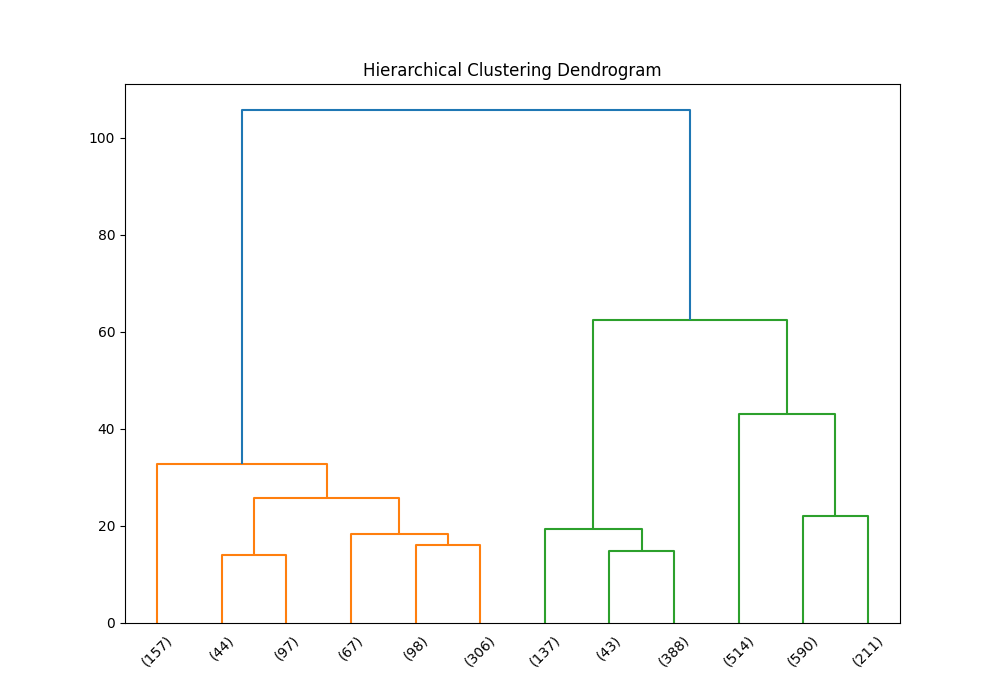
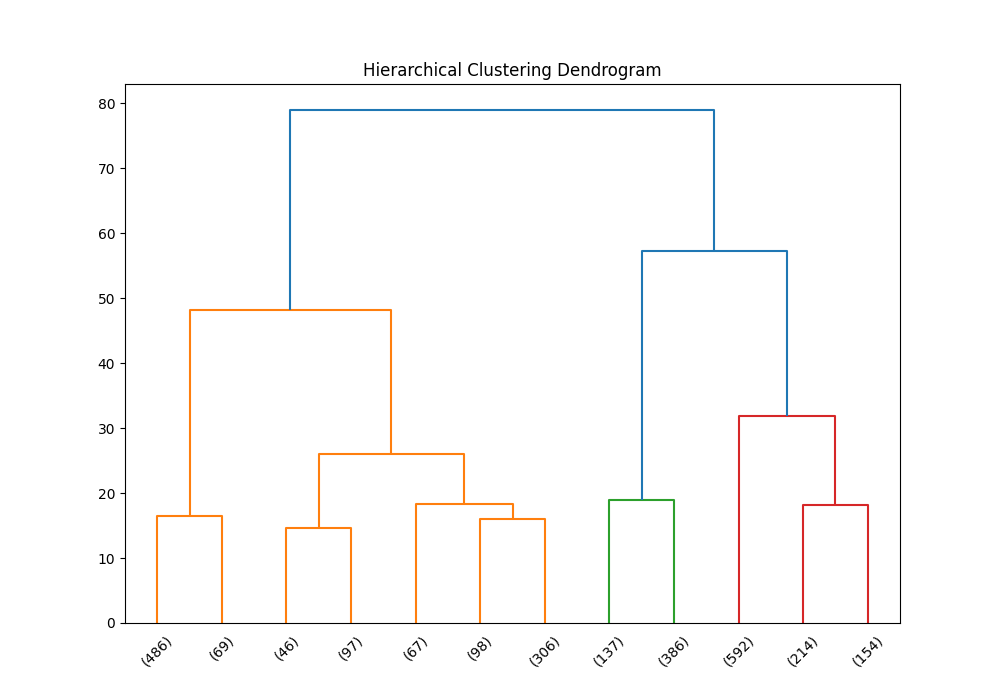
Latest Run reports

diff --git a/media/autolysis.py b/media/autolysis.py
@@ -1,0 +1,244 @@
+import pandas as pd
+import numpy as np
+import matplotlib.pyplot as plt
+import seaborn as sns
+#import plotly.express as px
+import openai
+import sys
+import os
+import markdown
+from charset_normalizer import detect
+from pathlib import Path
+from sklearn.cluster import KMeans
+from sklearn.preprocessing import StandardScaler
+from scipy.cluster.hierarchy import dendrogram, linkage
+
+if len(sys.argv) < 2:
+    print("Usage: uv run autolysis.py <filename.csv>")
+    sys.exit(1)
+file_path = sys.argv[1]
+markdown_content = []
+
+# Function to detect encoding, Load and Prepare Dataset
+def load_dataset(file_path):
+    try:
+        with open(file_path, 'rb') as file:
+            raw_data = file.read()
+            result = detect(raw_data)
+            encoding = result['encoding']
+        print(f"Detected encoding: {encoding}")
+        data = pd.read_csv(file_path, encoding=encoding)
+        return data
+    except Exception as e:
+        print(f"Error loading/determining the file encoding: {e}")
+        return None
+
+# Perform basic analysis
+def basic_analysis(csvdata,numerical_cols):
+    try:
+        data_datatypes = csvdata.dtypes.to_string()
+        if len(csvdata.head(50)) >= 50:
+            data_sample = csvdata.head(50).to_string()
+        else:
+            data_sample = csvdata.to_string()
+
+        data_stat = csvdata.describe(include='all').to_string()
+        missing_values = csvdata.isnull().sum()
+        missing_summary = missing_values[missing_values > 0]
+        correlation_matrix = csvdata[numerical_cols].corr()
+        analysis_summary = {
+                "shape": csvdata.shape,
+                "columns": csvdata.columns.tolist(),
+                "missing_values": missing_values.to_dict(),
+                "numerical_summary": csvdata.describe(include=[np.number]).to_dict(),
+                "correlation_matrix": correlation_matrix.to_dict(),
+                "sample_rows": data_sample,
+                "file_name": file_path,
+                "basic_statistics":data_stat,
+        }
+        markdown_content.append("# Dataset Analysis Report")
+        markdown_content.append(f"## CSV File Name: {file_path}")
+        markdown_content.append("## Dataset Overview")
+        markdown_content.append(f"- **Shape:** {csvdata.shape[0]} rows and {csvdata.shape[1]} columns")
+        markdown_content.append("### Columns and Data Types:")
+        markdown_content.append(f"```plaintext\n{data_datatypes}\n```")
+        markdown_content.append("### Sample Rows:")
+        markdown_content.append(f"```plaintext\n{data_sample}\n```")
+        markdown_content.append("## Basic Statistics")
+        markdown_content.append(f"```plaintext\n{data_stat}\n```")
+        markdown_content.append("## Missing Values")
+        if not missing_summary.empty:
+            markdown_content.append(f"```plaintext\n{missing_summary.to_string()}\n```")
+        else:
+            markdown_content.append("No missing values detected.")
+        markdown_content.append("## Correlation Matrix")
+        if numerical_cols:
+            markdown_content.append(f"```plaintext\n{correlation_matrix.to_string()}\n```")
+            plt.figure(figsize=(10, 8))
+            sns.heatmap(correlation_matrix, annot=True, cmap="coolwarm", fmt=".2f")
+            plt.title("Correlation Matrix")
+            plt.savefig("correlation_matrix.png")
+            plt.close()
+            markdown_content.append("![Correlation Matrix](correlation_matrix.png)")
+        else:
+            markdown_content.append("No numerical columns available for correlation analysis.")
+        return analysis_summary
+    except Exception as e:
+        print("Error while performing the basic analysis: %s" % e)
+        traceback.print_exc()
+
+# Identify Outliers in data
+def outlier_analysis(csvdata,numerical_cols):
+    try:
+       markdown_content.append("## Outlier Detection")
+       if numerical_cols:
+           outlier_report = []
+           for col in numerical_cols:
+               quartile_first = csvdata[col].quantile(0.25)
+               quartile_third = csvdata[col].quantile(0.75)
+               inter_quartile_range = quartile_third - quartile_first
+               lower_bound = quartile_first - 1.5 * inter_quartile_range
+               upper_bound = quartile_third + 1.5 * inter_quartile_range
+               outliers = csvdata[(csvdata[col] < lower_bound) | (csvdata[col] > upper_bound)]
+               #cleaned_data = csvdata[(csvdata[col] >= lower_bound) & (csvdata[col] <= upper_bound)]
+               outlier_report.append(f"- **{col}:** {outliers.shape[0]} outliers")
+           markdown_content.extend(outlier_report)
+           return outliers
+       else:
+           markdown_content.append("No numerical columns available for outlier detection.")
+    except Exception as e:
+            print("Error while determining outliers:  %s" % e)
+            traceback.print_exc()
+
+# Perform Advanced Analysis
+def perform_clustering(csvdata,numerical_cols,categorical_cols, n_clusters=3):
+    try:
+        numerical_cols = numerical_cols.select_dtypes(include=["float64", "int64"]).dropna()
+        scaler = StandardScaler()
+        scaled_data = scaler.fit_transform(numerical_cols)
+        kmeans = KMeans(n_clusters=n_clusters, random_state=42)
+        clusters = kmeans.fit_predict(scaled_data)
+        numerical_cols.loc[numerical_cols.index, 'Cluster'] = clusters
+        cluster_counts = numerical_cols['Cluster'].value_counts()
+        markdown_content.append("## Clustering Analysis")
+        markdown_content.append("Cluster Labels:")
+        table = "| Cluster | Count |\n|---------|-------|\n"
+        for cluster, count in cluster_counts.items():
+            table += f"| {cluster} | {count} |\n"
+        markdown_content.append(table)
+        markdown_content.append("## Categorical Data Analysis")
+        uniq_table = "| Column | Unique Value Count |\n|---------|--------------------|\n"
+        for col in categorical_cols:
+            value_counts = csvdata[col].nunique()
+            uniq_table += f"| {col} | {value_counts} |\n"
+        markdown_content.append("### Unique Value Count for All Categorical Columns")
+        markdown_content.append(uniq_table)
+        hier_clust = hier_clustering(numerical_cols)
+        clustering_summary = {
+                        "kmeans": kmeans,
+                        "hier_clust":hier_clust,
+        }
+        return clustering_summary
+    except Exception as e:
+        print("Error while performing advanced analysis: %s" % e)
+        traceback.print_exc()
+
+
+# Visualize Data Distributions and Relationships
+def generate_visualizations(numerical_data,categorical_cols):
+    try:
+        markdown_content.append("## Visualizations")
+        sns.pairplot(numerical_data)
+        plt.savefig("pairplot.png")
+        plt.close()
+        markdown_content.append("![Pairplot](pairplot.png)")
+#         fig = px.scatter_matrix(numerical_data, dimensions=numerical_data.columns)
+#         fig.write_image("scatter_matrix.png", width=800, height=600, scale=2)
+#         markdown_content.append("![ScatterMatrix](scatter_matrix.png)")
+        for col in numerical_data:
+            col_display_name = col.replace(" ", "_")
+            num_distinct = numerical_data[col].nunique()
+            if num_distinct <= 50:
+                if num_distinct <= 10:
+                    figsize = (16, 12)
+                elif num_distinct <= 30:
+                    figsize = (14, 10)
+                else:
+                    figsize = (12, 8)
+                category_counts = numerical_data[col].value_counts(normalize=True) * 100
+                min_percentage = category_counts.min()
+                if min_percentage < 1:
+                    min_percentage = 5
+                    plt.figure(figsize=figsize)
+                    sns.barplot(x=category_counts.index, y=category_counts.values)
+                    plt.title(f"Percentage Distribution of {col}")
+                    plt.xticks(rotation=45)
+                    plt.ylabel("Percentage")
+                    plt.ylim(min_percentage, category_counts.max() + 10)
+                    plt.savefig(f"{col_display_name}_percentage_distribution.png")
+                    plt.close()
+                    markdown_content.append(f"![{col} Percentage Distribution]({col_display_name}_percentage_distribution.png)")
+            else:
+                # If there are more than 50 distinct values, plot not required.
+                markdown_content.append(f"Skipping distribution plot for {col} because it has {num_distinct} distinct values.")
+    except Exception as e:
+        print("Error while generating visualizations: %s" % e)
+        traceback.print_exc()
+
+# to-do Hierarchical Clustering
+def hier_clustering(numerical_data):
+    try:
+        markdown_content.append("## Hierarchical Clustering")
+        if not numerical_data.empty:
+            scaler = StandardScaler()
+            scaled_data = scaler.fit_transform(numerical_data)
+            linked = linkage(scaled_data, method='ward')
+            plt.figure(figsize=(10, 7))
+            dendrogram(linked, truncate_mode='lastp', p=12, leaf_rotation=45, leaf_font_size=10)
+            plt.title("Hierarchical Clustering Dendrogram")
+            plt.savefig("dendrogram.png")
+            plt.close()
+            markdown_content.append("![Dendrogram](dendrogram.png)")
+            return linked
+    except Exception as e:
+        print("Error while performing Hierarchical Clustering: %s" % e)
+        traceback.print_exc()
+
+
+# Interact with LLM
+def get_llm_insights(analysis_summary):
+    llm_summary_text = f"""
+    The dataset contains {analysis_summary['shape'][0]} rows and {analysis_summary['shape'][1]} columns.
+    Key findings include:
+    - Missing values: {analysis_summary['missing_values']}
+    - Top correlations: {list(analysis_summary['correlation_matrix'])[:5]}
+    """
+    narrative = generate_narrative(llm_summary_text)
+    return narrative
+
+# Compile Report
+def compile_report():
+    with open("report.md", "w") as f:
+        f.write("\n".join(markdown_content))
+    print("Report saved to REPORT.md")
+
+# Main Function
+def main():
+    csvdata = load_dataset(file_path)
+    numerical_cols = csvdata.select_dtypes(include=np.number)
+    numerical_cols_list = numerical_cols.columns.tolist()
+    categorical_cols = csvdata.select_dtypes(include=['object']).columns
+    analysis_summary = basic_analysis(csvdata,numerical_cols_list)
+    outliers = outlier_analysis(csvdata,numerical_cols_list)
+    clustering_summary = perform_clustering(csvdata,numerical_cols,categorical_cols)
+    generate_visualizations(numerical_cols,categorical_cols)
+    linked = hier_clustering(numerical_cols)
+    if csvdata is not None:
+        #narrative = get_llm_insights(csvdata)
+        compile_report()
+        print("Analysis completed successfully.")
+    elif csvdata is None:
+        print("Error while reading the file. Check the CSV file provided.")
+
+if __name__ == "__main__":
+    main()

diff --git a/media/report.md b/media/report.md
@@ -1,0 +1,126 @@
+# Dataset Analysis Report
+## CSV File Name: media.csv
+## Dataset Overview
+- **Shape:** 2652 rows and 8 columns
+### Columns and Data Types:
+```plaintext
+date             object
+language         object
+type             object
+title            object
+by               object
+overall           int64
+quality           int64
+repeatability     int64
+```
+### Sample Rows:
+```plaintext
+         date  language    type                                        title                                                        by  overall  quality  repeatability
+0   15-Nov-24     Tamil   movie                                  Meiyazhagan                                      Arvind Swamy, Karthi        4        5              1
+1   10-Nov-24     Tamil   movie                                    Vettaiyan                                   Rajnikanth, Fahad Fazil        2        2              1
+2   09-Nov-24     Tamil   movie                                       Amaran                             Siva Karthikeyan, Sai Pallavi        4        4              1
+3   11-Oct-24    Telugu   movie                                        Kushi                               Vijay Devarakonda, Samantha        3        3              1
+4   05-Oct-24     Tamil   movie                                         GOAT                                                     Vijay        3        3              1
+5   02-Oct-24    Telugu   movie                        Sanivaaram Saripodhaa                                            Nani, SJ Surya        3        3              1
+6   01-Oct-24     Tamil   movie                                 Saba Nayagan                                              Ashok Selvan        3        3              2
+7   30-Sep-24   English   movie                               Dune: Part Two                                Timothée Chalamet, Zendaya        3        4              1
+8   10-Sep-24   English   movie                         Spencer Confidential                                             Mark Wahlberg        3        3              1
+9   07-Sep-24   English   movie                                   Gemini Man                                                Will Smith        3        3              1
+10  05-Sep-24     Tamil   movie                                         Arul                            Vikram, Jyothika, KS Ravikumar        3        3              2
+11  26-Aug-24     Tamil   movie                                       Raayan                                                   Dhanush        3        4              1
+12  25-Aug-24     Hindi   movie                                Lapata Ladies                                                       NaN        4        4              1
+13  03-Aug-24   Spanish   movie                               Non Negotiable                                                       NaN        3        3              1
+14  21-Jul-24  Japanese  series                              Attack on Titan                                                       NaN        5        5              2
+15  13-Jul-24     Tamil   movie                                     Maharaja                                          Vijay Sethupathi        4        5              1
+16  13-Jul-24     Tamil   movie                                       Vikram              Kamal Hassan, Fahaad Fazil, Vijay Sethupathi        3        4              2
+17  09-Jul-24  Japanese  series                      One Punch Man: Season 2                                                       NaN        4        4              2
+18  07-Jul-24  Japanese  series                      One Punch Man: Season 1                                                       NaN        4        4              2
+19  29-Jun-24  Japanese  series                         Code Geass: Season 2                                                       NaN        4        4              1
+20  26-Jun-24  Japanese  series                         Code Geass: Season 1                                                       NaN        4        4              1
+21  22-Jun-24    Telugu   movie                                    Ramabanam                 Gopichand, Dimple Hayathi, Jagapathi Babu        2        2              1
+22  16-Jun-24    Telugu   movie                       Padi Padi Leche Manasu                                   Sharwanand, Sai Pallavi        3        3              1
+23  15-Jun-24     Hindi   movie                       Meri Brother Ki Dulhan                                  Imran Khan, Katrina Kaif        2        2              2
+24  14-Jun-24     Tamil   movie                                  Por Thozhil                                Sarath Kumar, Ashok Selvan        3        4              1
+25  14-Jun-24   English   movie                                  Madame Webb                                            Dakota Johnson        3        3              1
+26  26-May-24     Tamil   movie                                Sigaram Thodu                                  Vikram Prabhu, Sathyaraj        3        3              1
+27  21-May-24    Telugu   movie                        Bhale Bhale Magadivoy                                    Nani, Lavanya Tripathi        3        4              2
+28  16-May-24    Telugu   movie                                 Alludu Seenu              Bellamkonda Sreenivas, Samantha, Prakash Raj        2        3              1
+29  04-May-24    Telugu   movie                                  Family Star                          Vijay Devarakonda, Mrinal Thakur        3        3              2
+30  01-May-24     Tamil   movie                                     Viswasam                                          Ajith, Nayantara        4        4              3
+31  12-Apr-24     Hindi   movie                Rocky Aur Rani Ki Prem Kahani                  Ranveer Singh, Alia Bhatt, Jaya Bachchan        4        4              1
+32  10-Apr-24    Telugu   movie                               Geeta Govindam                               Vijay Devarakonda, Rashmika        4        4              2
+33  08-Apr-24   English   movie  Fantastic Beasts: The Secrets of Dumbledore                                     David Yates, Jude Law        3        4              2
+34  07-Apr-24     Tamil   movie                                 Otha Seruppu                                                 Parthiban        3        3              1
+35  07-Apr-24   English   movie                       A Brush With Christmas                                                       NaN        3        3              1
+36  03-Apr-24    Telugu   movie                                        Kalki                                                Rajashekar        3        3              1
+37  02-Apr-24    Telugu   movie                                        Eagle                                                 Ravi Teja        3        3              1
+38  05-Mar-24     Hindi   movie                            Band Baaja Baarat                             Ranveer Singh, Anuksha Sharma        3        3              2
+39  18-Feb-24     Hindi   movie                                   Atrangi Re                     Dhanush, Sara Ali Khan, Akshay Khanna        4        4              2
+40  10-Feb-24    Telugu   movie                                   Ravanasura                                        Ravi Teja, Jayaram        2        2              1
+41  10-Feb-24     Hindi   movie                                     Rajneeti                  Ranbir Kapoor, Ajay Devgan, Nana Patekar        4        4              2
+42  09-Feb-24    Telugu   movie                                Guntur Karam                                   Mahesh Babu, Prakash Raj        2        3              1
+43  07-Feb-24    Telugu   movie             Devil - The British Secret Agent                               Kalyan Ram, Samyuktha Menon        2        3              1
+44  05-Feb-24     Tamil   movie                                        Kolai                                              Vijay Antony        2        3              1
+45  31-Jan-24    Telugu   movie                                      Athidhi                                   Mahesh Babu, Amrita Rao        3        3              2
+46  28-Jan-24     Tamil   movie                                    Maamannan  Mari Selvaraj, Vadivelu, Fahad Fazil, Udhayanidhi Stalin        4        4              1
+47  28-Jan-24     Hindi   movie                                 Dream Girl 2                                         Ayushmann Khurana        3        3              1
+48  26-Jan-24    Telugu   movie                                     Hi Nanna                                       Nani, Mrunal Thakur        3        4              2
+49  17-Jan-24     Hindi   movie                           Satyaprem Ki Katha                                Varun Dhawan, Kiara Advani        3        3              1
+```
+## Basic Statistics
+```plaintext
+             date language   type              title                 by      overall      quality  repeatability
+count        2553     2652   2652               2652               2390  2652.000000  2652.000000    2652.000000
+unique       2055       11      8               2312               1528          NaN          NaN            NaN
+top     21-May-06  English  movie  Kanda Naal Mudhal  Kiefer Sutherland          NaN          NaN            NaN
+freq            8     1306   2211                  9                 48          NaN          NaN            NaN
+mean          NaN      NaN    NaN                NaN                NaN     3.047511     3.209276       1.494721
+std           NaN      NaN    NaN                NaN                NaN     0.762180     0.796743       0.598289
+min           NaN      NaN    NaN                NaN                NaN     1.000000     1.000000       1.000000
+25%           NaN      NaN    NaN                NaN                NaN     3.000000     3.000000       1.000000
+50%           NaN      NaN    NaN                NaN                NaN     3.000000     3.000000       1.000000
+75%           NaN      NaN    NaN                NaN                NaN     3.000000     4.000000       2.000000
+max           NaN      NaN    NaN                NaN                NaN     5.000000     5.000000       3.000000
+```
+## Missing Values
+```plaintext
+date     99
+by      262
+```
+## Correlation Matrix
+```plaintext
+                overall   quality  repeatability
+overall        1.000000  0.825935       0.512600
+quality        0.825935  1.000000       0.312127
+repeatability  0.512600  0.312127       1.000000
+```
+![Correlation Matrix](correlation_matrix.png)
+## Outlier Detection
+- **overall:** 1216 outliers
+- **quality:** 24 outliers
+- **repeatability:** 0 outliers
+## Clustering Analysis
+Cluster Labels:
+| Cluster | Count |
+|---------|-------|
+| 0.0 | 1315 |
+| 2.0 | 769 |
+| 1.0 | 568 |
+
+## Categorical Data Analysis
+### Unique Value Count for All Categorical Columns
+| Column | Unique Value Count |
+|---------|--------------------|
+| date | 2055 |
+| language | 11 |
+| type | 8 |
+| title | 2312 |
+| by | 1528 |
+
+## Hierarchical Clustering
+![Dendrogram](dendrogram.png)
+## Visualizations
+![Pairplot](pairplot.png)
+![quality Percentage Distribution](quality_percentage_distribution.png)
+## Hierarchical Clustering
+![Dendrogram](dendrogram.png)
